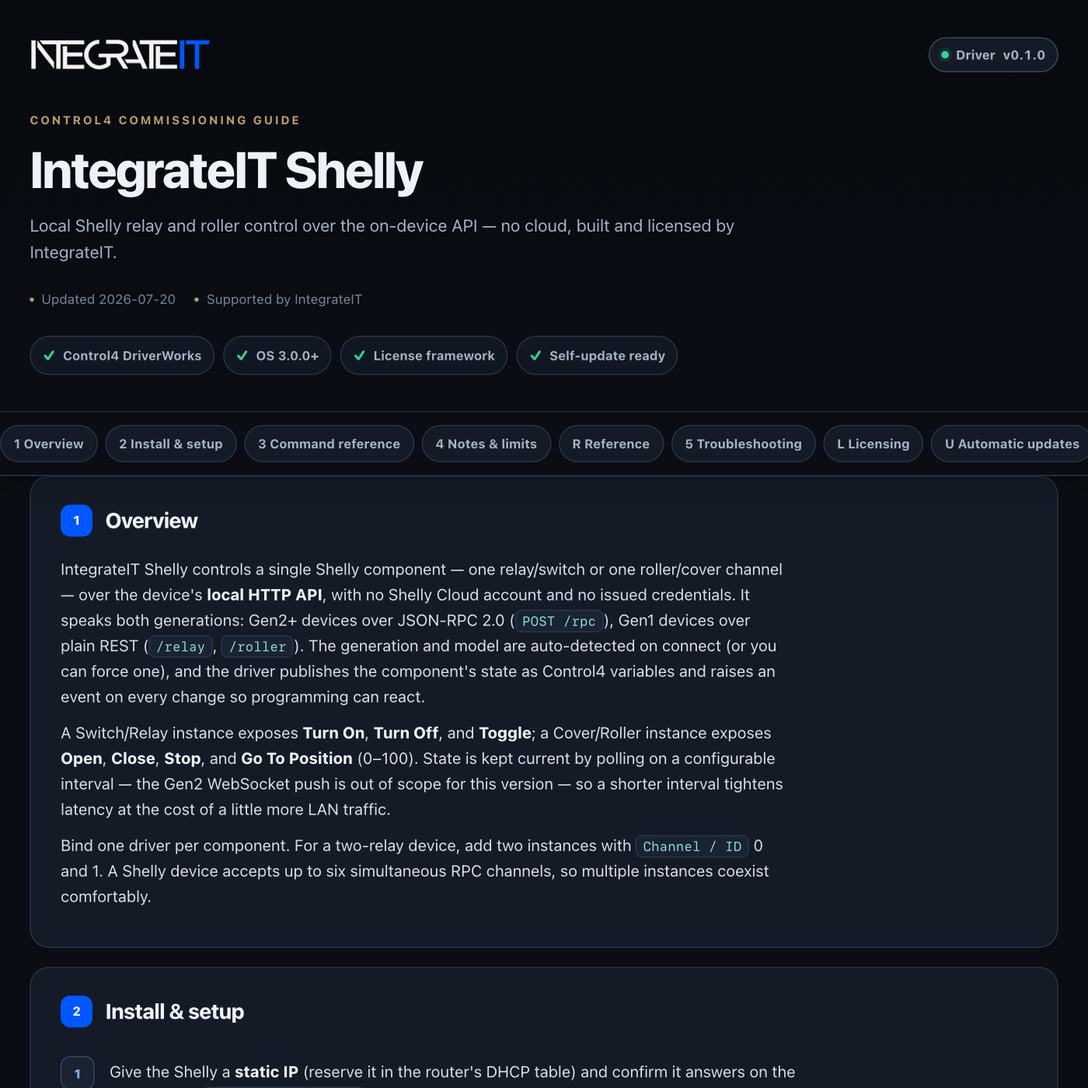
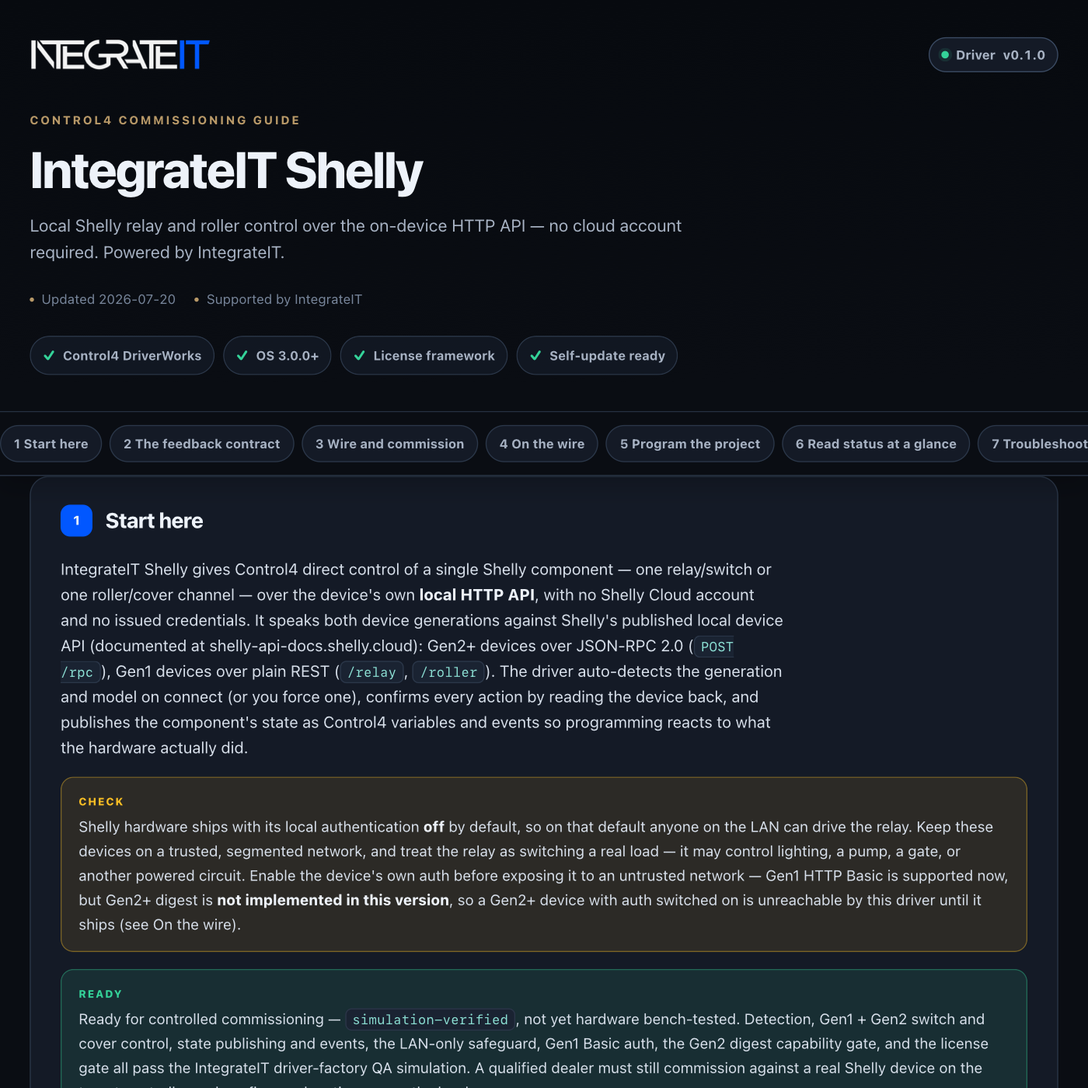
control4: publish driver channel (integrateit_shelly 0.1.1)

diff --git a/control4/integrateit_shelly/documentation.html b/control4/integrateit_shelly/documentation.html
@@ -179,13 +179,13 @@ td code{white-space:normal}
     <div class="wrap">
       <div class="brandbar">
[1 lines of base64/hex data omitted]
-        <span class="version"><span class="word">Driver</span> v0.1.0</span>
+        <span class="version"><span class="word">Driver</span> v0.1.1</span>
       </div>
       <p class="eyebrow">Control4 commissioning guide</p>
       <h1>IntegrateIT Shelly</h1>
-      <p class="sub">Local Shelly relay and roller control over the on-device API — no cloud, built and licensed by IntegrateIT.</p>
+      <p class="sub">Local Shelly relay and roller control over the on-device HTTP API — no cloud account required. Powered by IntegrateIT.</p>
       <div class="meta">
-        <span>Updated 2026-07-20</span>
+        <span>Updated 2026-07-26</span>
         <span>Supported by IntegrateIT</span>
       </div>
       <div class="readiness" aria-label="Driver capabilities">
@@ -198,55 +198,132 @@ td code{white-space:normal}
   </header>
 
   <div class="toc-wrap">
-    <nav class="toc wrap" aria-label="Documentation sections"><a href="#overview">1 Overview</a><a href="#install">2 Install &amp; setup</a><a href="#commands">3 Command reference</a><a href="#notes">4 Notes &amp; limits</a><a href="#reference">R Reference</a><a href="#troubleshooting">5 Troubleshooting</a><a href="#licensing">L Licensing</a><a href="#updates">U Automatic updates</a><a href="#changelog">V Version history</a></nav>
+    <nav class="toc wrap" aria-label="Documentation sections"><a href="#overview">1 Start here</a><a href="#feedback">2 The feedback contract</a><a href="#setup">3 Wire and commission</a><a href="#protocol">4 On the wire</a><a href="#programming">5 Program the project</a><a href="#status">6 Read status at a glance</a><a href="#troubleshooting">7 Troubleshoot methodically</a><a href="#trust">8 Ownership, privacy, and licensing</a><a href="#reference">R Reference</a><a href="#licensing">L Licensing</a><a href="#updates">U Automatic updates</a><a href="#changelog">V Version history</a></nav>
   </div>
 
   <main class="wrap">
     <section class="card" id="overview" data-card="overview">
-  <h2><span class="n">1</span> Overview</h2>
-  <p>IntegrateIT Shelly controls a single Shelly component — one relay/switch or one roller/cover channel — over the device's <b>local HTTP API</b>, with no Shelly Cloud account and no issued credentials. It speaks both generations: Gen2+ devices over JSON-RPC 2.0 (<code>POST /rpc</code>), Gen1 devices over plain REST (<code>/relay</code>, <code>/roller</code>). The generation and model are auto-detected on connect (or you can force one), and the driver publishes the component's state as Control4 variables and raises an event on every change so programming can react.</p>
-  <p>A Switch/Relay instance exposes <b>Turn On</b>, <b>Turn Off</b>, and <b>Toggle</b>; a Cover/Roller instance exposes <b>Open</b>, <b>Close</b>, <b>Stop</b>, and <b>Go To Position</b> (0–100). State is kept current by polling on a configurable interval — the Gen2 WebSocket push is out of scope for this version — so a shorter interval tightens latency at the cost of a little more LAN traffic.</p>
-  <p>Bind one driver per component. For a two-relay device, add two instances with <code>Channel / ID</code> 0 and 1. A Shelly device accepts up to six simultaneous RPC channels, so multiple instances coexist comfortably.</p>
+  <h2><span class="n">1</span> Start here</h2>
+  <p>IntegrateIT Shelly gives Control4 direct control of a single Shelly component — one relay/switch or one roller/cover channel — over the device's own <b>local HTTP API</b>, with no Shelly Cloud account and no issued credentials. It speaks both device generations against Shelly's published local device API (documented at shelly-api-docs.shelly.cloud): Gen2+ devices over JSON-RPC 2.0 (<code>POST /rpc</code>), Gen1 devices over plain REST (<code>/relay</code>, <code>/roller</code>). The driver auto-detects the generation and model on connect (or you force one), confirms every action by reading the device back, and publishes the component's state as Control4 variables and events so programming reacts to what the hardware actually did.</p>
+  <div class="note warn">Shelly hardware ships with its local authentication <b>off</b> by default, so on that default anyone on the LAN can drive the relay. Keep these devices on a trusted, segmented network, and treat the relay as switching a real load — it may control lighting, a pump, a gate, or another powered circuit. Enable the device's own auth before exposing it to an untrusted network — Gen1 HTTP Basic is supported now, but Gen2+ digest is <b>not implemented in this version</b>, so a Gen2+ device with auth switched on is unreachable by this driver until it ships (see On the wire).</div>
+  <div class="note good">Ready for controlled commissioning — <code>simulation-verified</code>, not yet hardware bench-tested. Detection, Gen1 + Gen2 switch and cover control, state publishing and events, the LAN-only safeguard, Gen1 Basic auth, the Gen2 digest capability gate, and the license gate all pass the IntegrateIT driver-factory QA simulation. A qualified dealer must still commission against a real Shelly device on the target controller and confirm each action moves the hardware.</div>
+  <p><b>What you get</b></p>
+  <ul>
+    <li>Switch/Relay control: <b>Turn On</b>, <b>Turn Off</b>, <b>Toggle</b> — the new state is read back and published to <code>RELAY_STATE</code> with <b>Turned On</b> / <b>Turned Off</b> events</li>
+    <li>Cover/Roller control: <b>Open</b>, <b>Close</b>, <b>Stop</b>, and <b>Go To Position</b> (0–100 via <code>Cover Target Position</code>) — position tracked in <code>COVER_POSITION</code> with <b>Cover Opened</b> / <b>Cover Closed</b> / <b>Cover Stopped</b> events</li>
+    <li>Automatic generation + model detection via <code>Shelly.GetDeviceInfo</code> (Gen2+) with a <code>/shelly</code> fallback (Gen1), or a forced generation</li>
+    <li>A configurable status poll that publishes <code>DEVICE_ONLINE</code> and the component state, with <b>Went Online</b> / <b>Went Offline</b> on reachability changes (<code>GENERATION</code> and <code>MODEL</code> are published by detection, not by the poll)</li>
+    <li>LAN-only destination safeguard — the driver refuses non-private addresses unless you explicitly opt in</li>
+    <li>Gen1 HTTP Basic auth when a device password is set; the password is never written to the Control4 log</li>
+    <li>MAC-locked IntegrateIT licensing with Lenient or Strict enforcement</li>
+  </ul>
 </section>
 
-<section class="card" id="install" data-card="install">
-  <h2><span class="n">2</span> Install &amp; setup</h2>
+<section class="card" id="feedback" data-card="feedback">
+  <h2><span class="n">2</span> The feedback contract</h2>
+  <p>This driver never invents state — every value it publishes comes from a read of the device:</p>
+  <ul>
+    <li><b>Actions are confirmed, not assumed.</b> A Gen2+ <b>Turn On/Off/Toggle</b> issues the RPC and then reads <code>Switch.GetStatus</code>; the published <code>RELAY_STATE</code> is the device's reported <code>output</code>, not the command you sent. Gen1 uses the <code>ison</code> field the <code>/relay</code> reply carries, falling back to a status read if it is absent. Cover actions likewise read <code>Cover.GetStatus</code> (Gen2+) or <code>/roller</code> (Gen1) for the reported <code>state</code> and <code>current_pos</code>.</li>
+    <li><b>The first observed state is absorbed silently.</b> When a poll or detection discovers the device's current state at boot, the driver adopts it without firing an event — so you never see a phantom <b>Turned On</b> or <b>Cover Closed</b> for a change the device did not just make. Events fire only on a genuine transition after that.</li>
+    <li><b>Cover events track the polled state.</b> *Cover Opened/Closed/Stopped* fire when the polled roller reaches a terminal state (<code>open</code>, <code>closed</code>, <code>stopped</code>); the transient <code>opening</code>/<code>closing</code>/<code>moving</code> states raise no event. With a long <code>Poll Interval (s)</code> a cover can reach its endpoint a few seconds before the event fires — shorten the interval for tighter feedback.</li>
+    <li><b>With polling disabled (<code>Poll Interval (s)</code> = 0), state only refreshes right after an action.</b> A change made at the wall switch or in the Shelly app is then invisible until the next command. Leave polling on if anything else can move the device.</li>
+    <li><b>After a controller reboot the driver knows nothing until the first detect/poll.</b> The variables sit at their declared defaults — <code>RELAY_STATE</code> and <code>COVER_POSITION</code> at <code>0</code>, <code>GENERATION</code> and <code>MODEL</code> empty. Those defaults are not a reading of the hardware, so do not drive automation off them before the first successful read; nothing that happened while the driver was down is observable.</li>
+  </ul>
+</section>
+
+<section class="card" id="setup" data-card="setup">
+  <h2><span class="n">3</span> Wire and commission</h2>
   <ol class="steps">
-    <li>Give the Shelly a <b>static IP</b> (reserve it in the router's DHCP table) and confirm it answers on the LAN — open <code>http://&lt;ip&gt;/shelly</code> in a browser and you should get a small JSON identity blob.</li>
-    <li>Add this driver to the room. Enter the <code>Shelly IP Address</code>. Leave <code>Generation</code> on <b>Auto-detect</b> unless a device is slow to identify.</li>
-    <li>Set <code>Component Type</code> (Switch/Relay or Cover/Roller) and the <code>Channel / ID</code> (0 for a single-channel device).</li>
-    <li>If the device has authentication enabled, enter the <code>Username</code> (Gen2+ is always <code>admin</code>) and <code>Password</code>. Leave them at the defaults if auth is off (the Shelly factory default).</li>
-    <li>Run <b>Detect Device</b> — <code>Detected Generation</code> and <code>Detected Model</code> should populate and <code>Device Status</code> should show the live component state.</li>
-    <li>Optionally enter a <code>License Key</code> (see Licensing) — the driver runs in Lenient mode without one.</li>
+    <li>Give the Shelly a <b>static IP</b> (reserve it in the router's DHCP table) and confirm it answers on the LAN — open <code>http://&lt;ip&gt;/shelly</code> in a browser and expect a small JSON identity blob.</li>
+    <li>Add <b>IntegrateIT Shelly</b> to the room and enter the <code>Shelly IP Address</code> — a bare dotted-quad IPv4 address, not a URL and not an IPv6 literal. Leave <code>Allow Non-LAN Address</code> at <b>No</b> unless the device is on a deliberately routed segment.</li>
+    <li>Leave <code>Generation</code> on <b>Auto-detect</b> unless a device is slow or ambiguous to identify, in which case force <b>Gen1</b> or <b>Gen2+</b>.</li>
+    <li>Set <code>Component Type</code> (Switch/Relay or Cover/Roller) and the <code>Channel / ID</code> (0 for a single-channel device; 0–3 for a multi-channel model). Bind a second driver instance for a second component.</li>
+    <li>If the device has authentication enabled, enter the <code>Username</code> (Gen2+ is always <code>admin</code>) and <code>Password</code>. Only Gen1 Basic auth is implemented in this version — a <b>Gen2+</b> device with auth on answers 401 and the driver reports the hardware gate instead of authenticating (see On the wire). Leave both at their defaults when auth is off (the Shelly factory default).</li>
+    <li>Run <b>Detect Device</b>. <code>Detected Generation</code> and <code>Detected Model</code> should populate and <code>Device Status</code> should show the live component state.</li>
+    <li>From the Actions tab, run <b>Turn On</b> / <b>Turn Off</b> (or <b>Open</b> / <b>Close</b>) and <b>watch the Shelly react</b> — the relay clicks or the roller moves, and <code>RELAY_STATE</code> / <code>COVER_POSITION</code> follows. Optionally enter a <code>License Key</code> (Lenient mode runs without one).</li>
   </ol>
 </section>
 
-<section class="card" id="commands" data-card="commands">
-  <h2><span class="n">3</span> Command reference</h2>
+<section class="card" id="protocol" data-card="protocol">
+  <h2><span class="n">4</span> On the wire</h2>
+  <p>Two transports, one driver — turn on <code>Debug Mode → Print</code> to watch each HTTP call in the Lua output window (the password is never logged):</p>
   <table>
-    <tr><th>Action</th><th>Component</th><th>What it does</th></tr>
-    <tr><td>Turn On / Turn Off / Toggle</td><td>Switch / Relay</td><td>Sets or flips the relay; the new state is confirmed from the device and published to <code>RELAY_STATE</code>.</td></tr>
-    <tr><td>Open / Close / Stop</td><td>Cover / Roller</td><td>Drives the roller; <code>COVER_POSITION</code> follows the polled position.</td></tr>
-    <tr><td>Go To Position</td><td>Cover / Roller</td><td>Moves the roller to <code>Cover Target Position</code> (0 = closed, 100 = open).</td></tr>
-    <tr><td>Detect Device</td><td>Either</td><td>Probes <code>Shelly.GetDeviceInfo</code> (Gen2+) then <code>/shelly</code> (Gen1) to resolve generation + model.</td></tr>
-    <tr><td>Refresh Status</td><td>Either</td><td>Reads component status now and republishes variables.</td></tr>
-    <tr><td>Print Configuration</td><td>Either</td><td>Prints the resolved generation, component, channel, and auth state to the Lua output (never the password).</td></tr>
+    <tr><th>Purpose</th><th>Gen2+ (JSON-RPC 2.0)</th><th>Gen1 (REST)</th></tr>
+    <tr><td>Detect</td><td><code>GET /rpc/Shelly.GetDeviceInfo</code></td><td><code>GET /shelly</code></td></tr>
+    <tr><td>Switch</td><td><code>POST /rpc</code> <code>Switch.Set</code> / <code>Switch.Toggle</code> / <code>Switch.GetStatus</code></td><td>`GET /relay/&lt;ch&gt;?turn=on\</td><td>off\</td><td>toggle`</td></tr>
+    <tr><td>Cover</td><td><code>POST /rpc</code> <code>Cover.Open</code> / <code>Cover.Close</code> / <code>Cover.Stop</code> / <code>Cover.GoToPosition</code> / <code>Cover.GetStatus</code></td><td>`GET /roller/&lt;ch&gt;?go=open\</td><td>close\</td><td>stop<code>, </code>go=to_pos&amp;roller_pos=&lt;n&gt;`</td></tr>
   </table>
-  <p><b>Events:</b> *Turned On*, *Turned Off*, *Cover Opened*, *Cover Closed*, *Cover Stopped*, *Went Online*, *Went Offline*. <b>Variables:</b> <code>DEVICE_ONLINE</code>, <code>GENERATION</code>, <code>MODEL</code>, <code>RELAY_STATE</code>, <code>COVER_POSITION</code>.</p>
+  <p>Everything is HTTP on port 80. <b>Auto-detect</b> probes the Gen2+ RPC first and falls back to <code>/shelly</code>. Forcing a generation does not skip the probe — it sends that generation's probe only, with no fallback, so a wrong force shows <code>Gen2+ probe failed (HTTP &lt;code&gt;)</code> or <code>Detection failed (HTTP &lt;code&gt;)</code> in <code>Device Status</code> rather than quietly correcting itself. Any response marks the device online; a transport failure (no response) marks it offline and fires <b>Went Offline</b>. A non-2xx reply to a control action puts <code>Device error on &lt;action&gt; (HTTP &lt;code&gt;)</code> on the <code>Status</code> line.</p>
+  <p><b>Authentication.</b> Shelly ships with auth off — the fully exercised default. When a <code>Password</code> is set on a <b>Gen1</b> device the driver sends an HTTP Basic <code>Authorization</code> header (<code>base64(user:pass)</code> via <code>C4:Base64Encode</code>). <b>Gen2+</b> uses RFC7616 SHA-256 digest, which needs the controller's OS crypto (<code>C4:Hash</code>) and the 401-challenge headers; that primitive is not present in the offline simulator, so the driver does not synthesize a digest header in this version. A 401 from a Gen2+ device therefore reports <code>Auth required: Gen2+ digest needs controller OS crypto (verified on hardware)</code> — unconditionally, even where the controller does expose crypto — rather than faking an unexercised hash path or wrongly blaming your credentials. A 401 while <code>Password</code> is still blank reports <code>Auth required: set the device Password</code> — the device has auth on and the driver has no credential to send. Until digest ships, leave a Gen2+ device's auth off on a trusted LAN.</p>
 </section>
 
-<section class="card" id="notes" data-card="notes">
-  <h2><span class="n">4</span> Notes &amp; limits</h2>
+<section class="card" id="programming" data-card="programming">
+  <h2><span class="n">5</span> Program the project</h2>
+  <table>
+    <tr><th>Action</th><th>Component</th><th>Effect</th></tr>
+    <tr><td>Turn On / Turn Off / Toggle</td><td>Switch/Relay</td><td>Sets or flips the relay; confirmed state published to <code>RELAY_STATE</code></td></tr>
+    <tr><td>Open / Close / Stop</td><td>Cover/Roller</td><td>Drives the roller; <code>COVER_POSITION</code> follows the polled position</td></tr>
+    <tr><td>Go To Position</td><td>Cover/Roller</td><td>Moves the roller to <code>Cover Target Position</code> (0 = closed, 100 = open)</td></tr>
+    <tr><td>Detect Device</td><td>Either</td><td>Resolves generation + model and refreshes status</td></tr>
+    <tr><td>Refresh Status</td><td>Either</td><td>Reads component status now and republishes variables</td></tr>
+    <tr><td>Print Configuration</td><td>Either</td><td>Prints IP, resolved generation, component, channel, and auth state to the Lua output — never the password</td></tr>
+  </table>
+  <table>
+    <tr><th>Variable</th><th>Type</th><th>Meaning</th></tr>
+    <tr><td><code>DEVICE_ONLINE</code></td><td>BOOL</td><td>Device is responding on the LAN</td></tr>
+    <tr><td><code>RELAY_STATE</code></td><td>BOOL</td><td>Last confirmed relay/switch on-state</td></tr>
+    <tr><td><code>COVER_POSITION</code></td><td>NUMBER</td><td>Last polled roller position, 0–100</td></tr>
+    <tr><td><code>GENERATION</code></td><td>STRING</td><td>Resolved generation (<code>Gen1</code> / <code>Gen2</code>)</td></tr>
+    <tr><td><code>MODEL</code></td><td>STRING</td><td>Model reported by detection</td></tr>
+  </table>
+  <p>Three ways these wire into Composer programming:</p>
   <ul>
-    <li><b>Local API only.</b> This driver talks to the device on your LAN. It never contacts Shelly Cloud, and the Integrator/Cloud APIs (which require issued credentials) are intentionally unsupported. <code>Allow Non-LAN Address</code> gates any address outside the private/link-local ranges — leave it <b>No</b> unless you have a deliberately routed setup.</li>
-    <li><b>One component per instance.</b> Add a second driver for a second relay or roller channel.</li>
-    <li><b>Polling, not push.</b> Cover events reflect the polled roller state, so with a long <code>Poll Interval</code> a cover may reach its endpoint a few seconds before *Cover Opened/Closed* fires. Shorten the interval for tighter feedback.</li>
-    <li><b>Auth.</b> Gen1 uses HTTP Basic (the driver sends the base64 credential when a <code>Password</code> is set). Gen2+ uses SHA-256 digest, which needs the controller's OS crypto and the 401 challenge headers; that path is verified on hardware. Until then, a Gen2 device that has auth enabled will report that digest auth needs the controller's crypto rather than silently failing — enable local auth only when you are on a controller build that supports it, or leave the Shelly's auth off on a trusted LAN.</li>
-    <li><b>IPv4 only</b> in this version; enter the device's dotted-quad address, not an IPv6 literal.</li>
+    <li>**When *Turned On* fires → run a scene.** Because the event follows a confirmed status read, it also fires when someone flips the Shelly at the wall or in its app — Control4 reacts to the real relay, not only to its own command. That external pickup depends on the poll: with <code>Poll Interval (s)</code> at 0 the driver re-reads only after its own action.</li>
+    <li>**When *Went Offline* fires → notify.** A power-cycled or renumbered device stops answering the poll; use the event to surface a rack-side alert.</li>
+    <li><b>On a Good Night event → call Close (or Turn Off).</b> One Control4 event drives the roller shut or kills the load; <code>COVER_POSITION</code> / <code>RELAY_STATE</code> confirm the result for the next step in the program.</li>
   </ul>
+  <p>Control actions are gated by the license: under <b>Strict</b> enforcement an unlicensed controller issues no control request at all, while status polling keeps running (watching your own device is not a licensed feature). The default <b>Lenient</b> mode allows commissioning while <code>License Status</code> carries the nag.</p>
+</section>
+
+<section class="card" id="status" data-card="status">
+  <h2><span class="n">6</span> Read status at a glance</h2>
+  <table>
+    <tr><th>Property / variable</th><th>Healthy result</th><th>What to do otherwise</th></tr>
+    <tr><td><code>Device Status</code></td><td><code>Relay on/off</code>, <code>Cover at &lt;n&gt;%</code>, or <code>Detected &lt;gen&gt; (&lt;model&gt;)</code></td><td>Read the exact <code>Blocked:</code> / <code>Auth required:</code> / <code>… probe failed</code> text it shows (the <code>Status</code> property adds <code>Not ready:</code> / <code>Device error…</code>)</td></tr>
+    <tr><td><code>Detected Generation</code></td><td><code>Gen1</code> or <code>Gen2</code> after Detect</td><td><code>Unknown</code> = detection never succeeded; force a generation</td></tr>
+    <tr><td><code>Detected Model</code></td><td>The device's model string</td><td><code>Unknown</code> until a successful detect</td></tr>
+    <tr><td><code>DEVICE_ONLINE</code></td><td><code>1</code></td><td><code>0</code> = device off the LAN or on a new IP; reserve it in DHCP</td></tr>
+    <tr><td><code>RELAY_STATE</code> / <code>COVER_POSITION</code></td><td>Matches the physical device</td><td>Confirm <code>Component Type</code> and <code>Channel / ID</code> match the real component</td></tr>
+    <tr><td><code>License Status</code></td><td>Activated, or Lenient during commissioning</td><td>Enter a key before selecting Strict enforcement</td></tr>
+  </table>
+  <p><b>Print Configuration</b> writes the device IP, resolved generation, component and channel, online flag, and auth state (password length only) to the Lua output window. It never prints the password or the license key.</p>
+</section>
+
+<section class="card" id="troubleshooting" data-card="troubleshooting">
+  <h2><span class="n">7</span> Troubleshoot methodically</h2>
+  <table>
+    <tr><th>Symptom</th><th>Likely cause</th><th>Fix</th></tr>
+    <tr><td>Nothing responds; <code>Device Status</code> reads <code>Blocked: …</code></td><td>Address is outside the LAN ranges, an IPv6 literal, a URL, or blank</td><td>Enter the device's dotted-quad LAN IPv4; set <code>Allow Non-LAN Address</code> = Yes only for a routed setup</td></tr>
+    <tr><td><code>DEVICE_ONLINE</code> stuck <code>0</code></td><td>Device rebooted onto a new IP, is off the LAN, or is unpowered</td><td>Reserve the IP in DHCP; confirm <code>http://&lt;ip&gt;/shelly</code> answers in a browser</td></tr>
+    <tr><td>Detection fails / wrong generation</td><td>Device slow to answer, or an unusual model</td><td>Force <code>Generation</code> to Gen1 or Gen2+ to skip auto-detect</td></tr>
+    <tr><td><code>Auth required: … digest needs controller OS crypto</code></td><td>A Gen2+ device has authentication enabled</td><td>Digest is not synthesized in this version — disable the Shelly's auth on a trusted LAN until it ships</td></tr>
+    <tr><td><code>Auth required: set the device Password</code></td><td>The device answered 401 and <code>Password</code> is blank</td><td>Enter the device password (Gen1), or turn the Shelly's auth off</td></tr>
+    <tr><td><code>Authentication failed - check Username / Password</code></td><td>Gen1 device with the wrong credentials</td><td>Correct <code>Username</code> / <code>Password</code> to match the device web UI</td></tr>
+    <tr><td>Action reports success but nothing moves</td><td>Wrong <code>Component Type</code> or <code>Channel / ID</code></td><td>Match them to the real component; run <b>Refresh Status</b></td></tr>
+    <tr><td>Control does nothing, no request in Debug; <code>Status</code> reads <code>Unlicensed - control disabled</code></td><td>Strict enforcement with no activated key</td><td>Enter a valid <code>License Key</code>, or set <code>License Enforcement</code> back to Lenient for commissioning</td></tr>
+  </table>
+  <div class="note"><code>Debug Mode → Print</code> shows every HTTP method and path in the Lua output window; the password is never included.</div>
+  <p>If a symptom survives every check above, run <b>Print Configuration</b>, capture the Lua output window, and send it to support@integrateit.tech · (913) 804-7575.</p>
+</section>
+
+<section class="card" id="trust" data-card="trust">
+  <h2><span class="n">8</span> Ownership, privacy, and licensing</h2>
+  <p>This package is an original IntegrateIT implementation of Shelly's published local device API (Gen1 REST and Gen2 JSON-RPC, documented at shelly-api-docs.shelly.cloud). It does not bundle another vendor's runtime, source code, brand assets, trial system, or license. Shelly is a trademark of Allterco Robotics; IntegrateIT is not affiliated with Shelly or Allterco, and this driver is not a Shelly product.</p>
+  <p>The driver talks only to the Shelly device on your LAN — it never contacts Shelly Cloud, and the Integrator/Cloud APIs (which require issued credentials) are intentionally unsupported. Nothing about your project leaves the controller. The device <code>Password</code> lives only in the driver's property store, is sent only to the local device as an auth header, and is never written to the Control4 log or the Print Configuration output. The <code>Allow Non-LAN Address</code> gate defaults to <b>No</b>, so the driver cannot be pointed at an arbitrary internet host by accident.</p>
+  <p>Lenient mode allows commissioning without an activated key and keeps <code>License Status</code> visible. Strict mode blocks all device control until the Ops Portal has minted and validated a key for that controller; status polling continues either way. Installing this package does not itself mint or activate a controller license. The shared IntegrateIT license and update services use the controller identity, driver slug, version, configured license key, and update channel as documented in the reference below.</p>
 <section class="card" id="reference" data-card="reference">
   <h2><span class="n">R</span> Reference</h2>
-  <p>Generated from the driver manifest at build time — always matches this build (v0.1.0).</p>
+  <p>Generated from the driver manifest at build time — always matches this build (v0.1.1).</p>
   <h3>Properties</h3>
   <table>
     <tr><th>Property</th><th>Type</th><th>Default</th><th>Description</th></tr>
@@ -310,19 +387,6 @@ td code{white-space:normal}
   </table>
 </section>
 </section>
-
-<section class="card" id="troubleshooting" data-card="troubleshooting">
-  <h2><span class="n">5</span> Troubleshooting</h2>
-  <table>
-    <tr><th>Symptom</th><th>Likely cause</th><th>Fix</th></tr>
-    <tr><td><code>Device Status</code> shows *Blocked*</td><td>Address is outside the LAN ranges, an IPv6 literal, or a URL</td><td>Enter the device's LAN IPv4 address; set <code>Allow Non-LAN Address</code> = Yes only for a routed setup.</td></tr>
-    <tr><td>Detection fails / wrong generation</td><td>Device slow to answer, or an unusual model</td><td>Force <code>Generation</code> to Gen1 or Gen2+ to skip auto-detect.</td></tr>
-    <tr><td>Control does nothing</td><td>Strict enforcement + unlicensed</td><td>Check <code>License Status</code>; Lenient mode keeps control enabled without a key.</td></tr>
-    <tr><td>*Auth required: … digest needs controller OS crypto*</td><td>Gen2+ device has authentication enabled</td><td>Verified on hardware; disable the Shelly's auth on a trusted LAN, or use a controller build with OS crypto.</td></tr>
-    <tr><td><code>DEVICE_ONLINE</code> stuck 0</td><td>Device rebooted onto a new IP, or is off the LAN</td><td>Reserve the IP in DHCP; confirm <code>http://&lt;ip&gt;/shelly</code> answers.</td></tr>
-  </table>
-  <div class="note">Turn on <code>Debug Mode → Print</code> to watch every HTTP call in the Lua output window. The password is never logged.</div>
-</section>
 <section class="card" id="licensing" data-card="licensing">
   <h2><span class="n">L</span> Licensing</h2>
   <p>This driver is licensed <b>per controller</b>. Each license key locks to one controller's
@@ -370,7 +434,9 @@ td code{white-space:normal}
     <section class="card" id="changelog" data-card="changelog">
   <h2><span class="n">V</span> Version history</h2>
   <div class="chg">
-    <div class="rel"><b>v0.1.0</b> <span class="pill green">current</span><span class="d">2026-07-20</span>
+    <div class="rel"><b>v0.1.1</b> <span class="pill green">current</span><span class="d">2026-07-26</span>
+      <ul><li>Documentation rebuilt to the IntegrateIT commissioning-guide standard: uniform sections, honest contracts, verified claim-by-claim against the code.</li></ul></div>
+    <div class="rel"><b>v0.1.0</b><span class="d">2026-07-20</span>
       <ul><li>Initial release candidate. Local-LAN control of a single Shelly component over the on-device HTTP API — no Shelly Cloud, no issued credentials.</li><li>Dual transport: Gen2+ JSON-RPC 2.0 (`POST /rpc`: Switch.Set/Toggle/GetStatus, Cover.Open/Close/Stop/GoToPosition/GetStatus, Shelly.GetDeviceInfo) and Gen1 REST (`/shelly`, `/relay/&lt;ch&gt;?turn=…`, `/roller/&lt;ch&gt;?go=…`).</li><li>Generation + model auto-detection (GetDeviceInfo, then /shelly fallback), or forced Gen1 / Gen2+.</li><li>Switch/Relay actions (Turn On/Off/Toggle) with confirmed RELAY_STATE and Turned On/Off events; Cover/Roller actions (Open/Close/Stop/Go To Position 0–100) with COVER_POSITION and Cover Opened/Closed/Stopped events.</li><li>Polled status publishes DEVICE_ONLINE, GENERATION, MODEL, and component state; Went Online/Offline on reachability changes.</li><li>Gen1 HTTP Basic auth via C4:Base64Encode (sim-verified); Gen2+ SHA-256 digest gated behind an OS-crypto capability check and verified on hardware — no unexercised hash path ships.</li><li>LAN-only destination safeguard (private/link-local/*.local, with an explicit Allow Non-LAN Address override); passwords never written to the log.</li><li>MAC-locked IntegrateIT licensing gates every control action.</li><li>Simulation-verified via the driver factory QA gate; representative Shelly hardware acceptance pending.</li></ul></div>
   </div>
 </section>

diff --git a/control4/integrateit_shelly/CHANGELOG.md b/control4/integrateit_shelly/CHANGELOG.md
@@ -1,5 +1,8 @@
 # Changelog — IntegrateIT Shelly
 
+## [0.1.1] - 2026-07-26
+- Documentation rebuilt to the IntegrateIT commissioning-guide standard: uniform sections, honest contracts, verified claim-by-claim against the code.
+
 ## [0.1.0] - 2026-07-20
 - Initial release candidate. Local-LAN control of a single Shelly component over the on-device HTTP API — no Shelly Cloud, no issued credentials.
 - Dual transport: Gen2+ JSON-RPC 2.0 (`POST /rpc`: Switch.Set/Toggle/GetStatus, Cover.Open/Close/Stop/GoToPosition/GetStatus, Shelly.GetDeviceInfo) and Gen1 REST (`/shelly`, `/relay/<ch>?turn=…`, `/roller/<ch>?go=…`).
